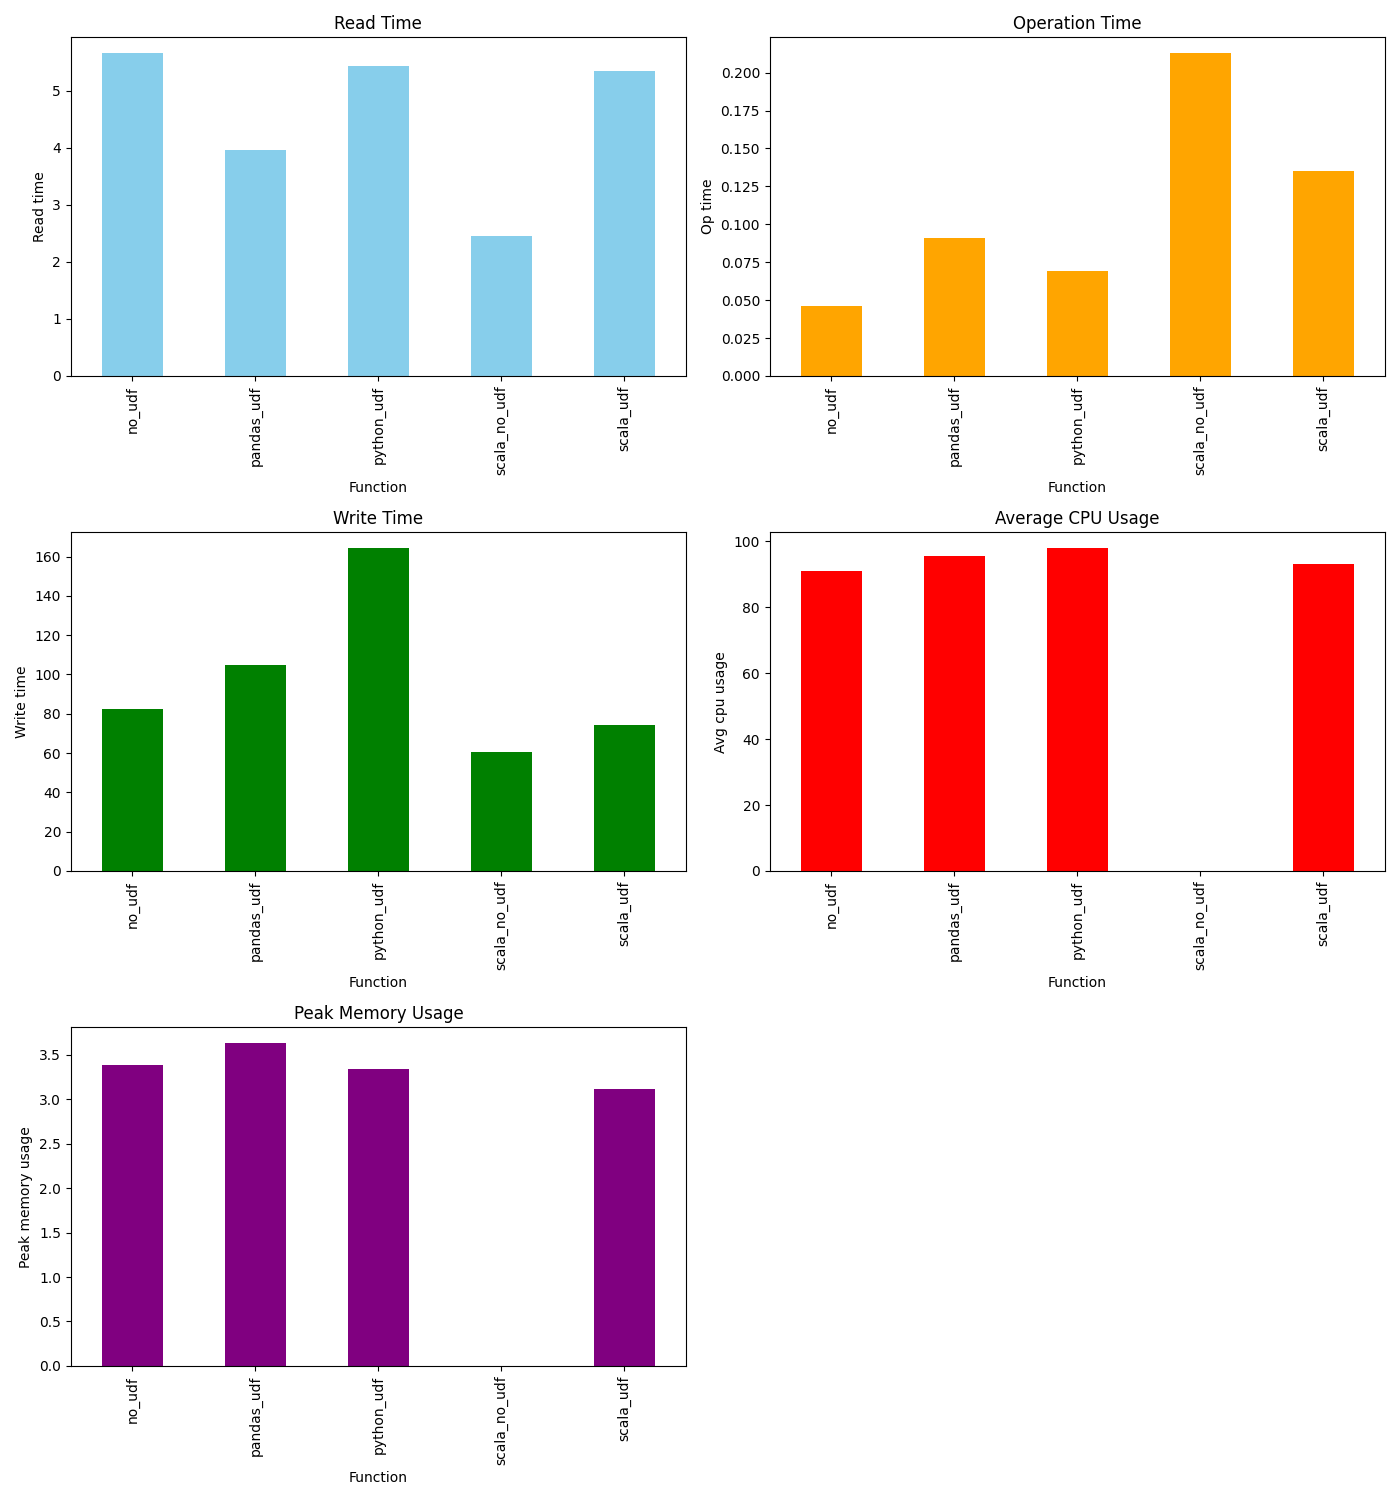
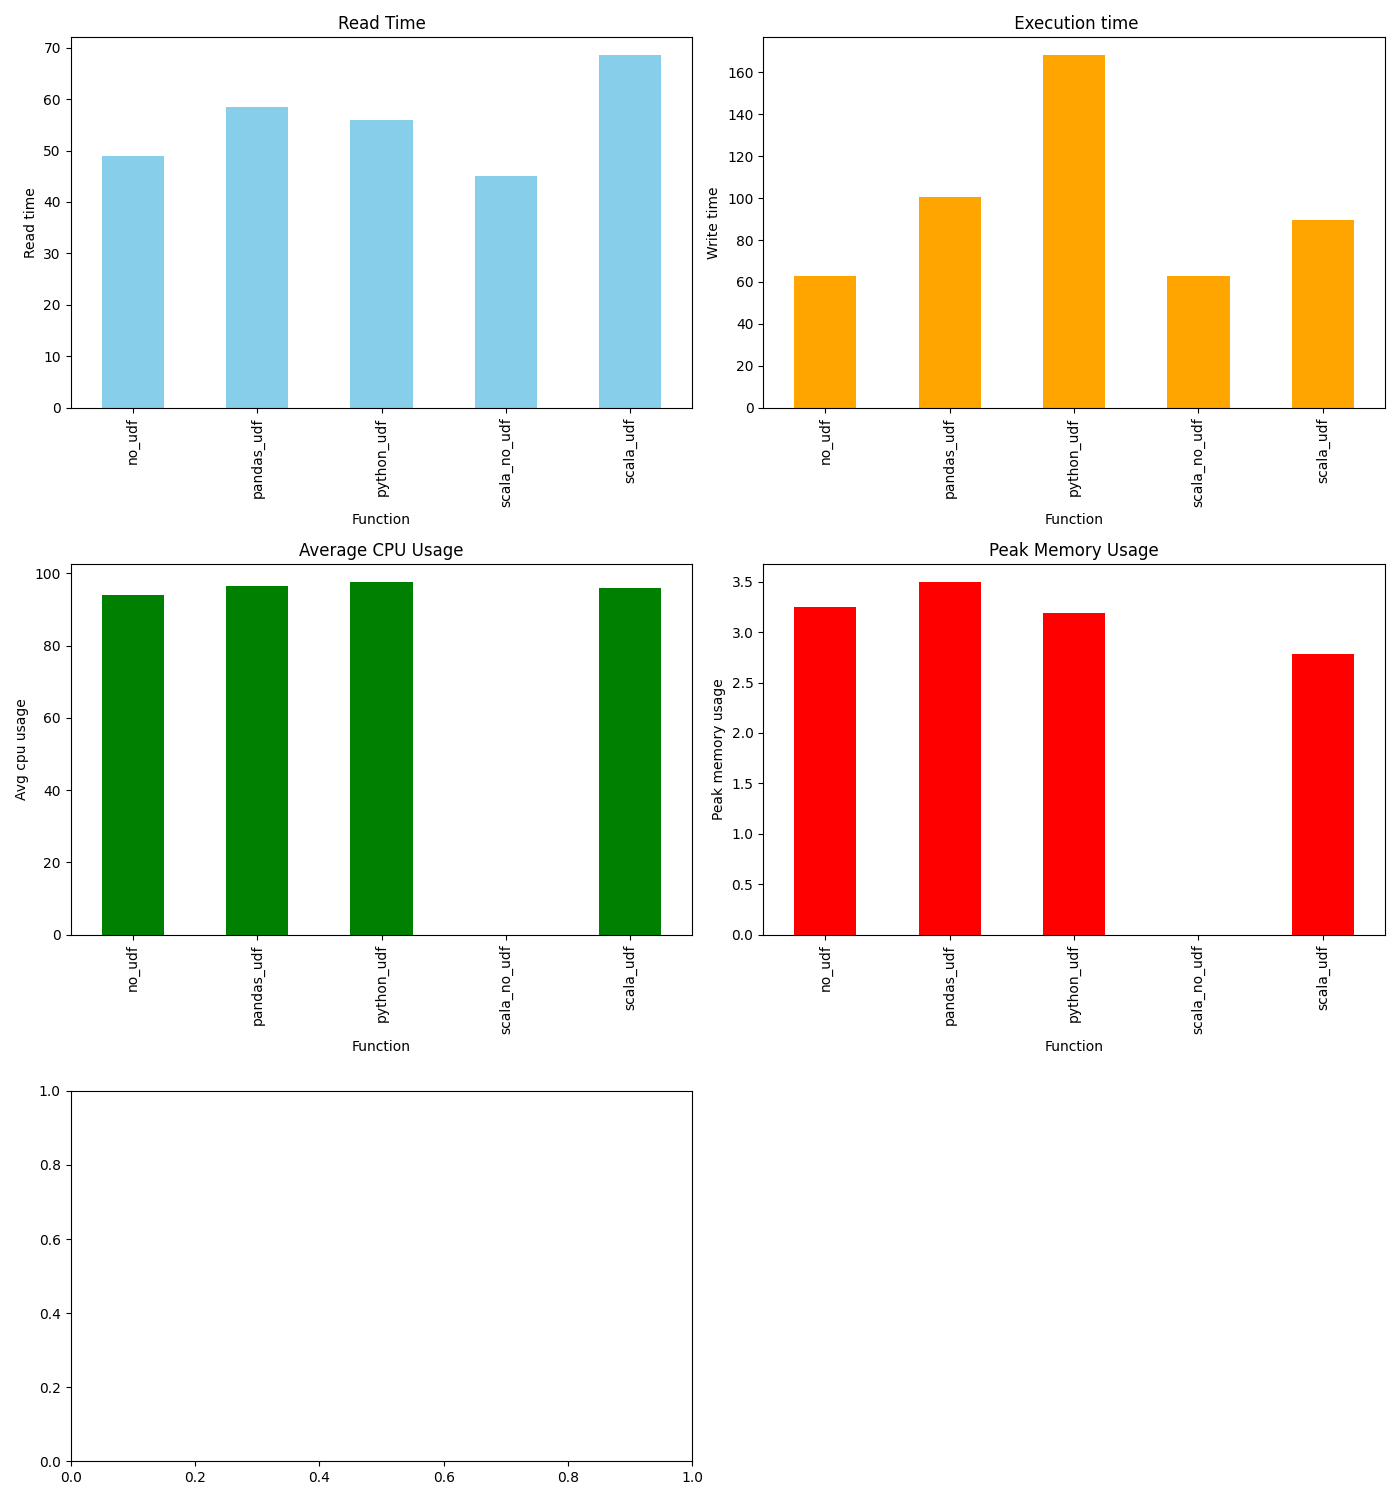
final push

diff --git a/src/fr/hymaia/exo4/python_udf.py b/src/fr/hymaia/exo4/python_udf.py
@@ -23,20 +23,16 @@ def create_category_name(category: int) -> str:
 def main():
     monitor = HardwareMonitor()
     monitor.start()
-    
     read_start = time.time()
-    df = spark.read.csv("src/resources/exo4/sell.csv", header=True)
+    df = spark.read.csv("src/resources/exo4/sell.csv", header=True,inferSchema=True)
     read_end = time.time()
-    op_start = time.time()
     df = df.withColumn("category_name", create_category_name(df["category"]))
-    op_end = time.time()
     write_start = time.time()
     df.write.mode("overwrite").parquet("src/output/python_udf.parquet")
     write_end = time.time()
     monitor.stop()   
     data = {
         'read_time': read_end - read_start,
-        'op_time': op_end - op_start,
         'write_time': write_end - write_start,
         'avg_cpu_usage': monitor.get_avg_cpu(),
         'avg_memory_usage': monitor.get_avg_memory(),

diff --git a/src/fr/hymaia/exo4/no_udf.py b/src/fr/hymaia/exo4/no_udf.py
@@ -28,18 +28,15 @@ def main():
     monitor = HardwareMonitor()
     monitor.start()
     read_start = time.time()
-    sell_df = spark.read.csv("src/resources/exo4/sell.csv",header=True)
+    sell_df = spark.read.csv("src/resources/exo4/sell.csv",header=True,inferSchema=True)
     read_end = time.time()
-    op_start = time.time()
     sell_df =  sell_df.withColumn("category_name", F.when(sell_df["category"] < 6, "food").otherwise("furniture"))
-    op_end = time.time()
     write_start = time.time()
     sell_df.write.mode("overwrite").parquet("src/output/no_udf_noWindow.parquet")
     write_end = time.time()
     monitor.stop()
     data = {
         'read_time': read_end - read_start,
-        'op_time': op_end - op_start,
         'write_time': write_end - write_start,
         'avg_cpu_usage': monitor.get_avg_cpu(),
         'avg_memory_usage': monitor.get_avg_memory(),

diff --git a/src/fr/hymaia/exo4/pandas_udf.py b/src/fr/hymaia/exo4/pandas_udf.py
@@ -20,22 +20,17 @@ def main():
     monitor.start()
     
     read_start = time.time()
-    df = spark.read.csv("src/resources/exo4/sell.csv", header=True)
+    df = spark.read.csv("src/resources/exo4/sell.csv", header=True,inferSchema=True)
     read_end = time.time()
-    
-    op_start = time.time()
     df = df.withColumn("category_name", create_category_name(df["category"]))
-    op_end = time.time()
-    
     write_start = time.time()
     df.write.mode("overwrite").parquet("src/output/python_udf.parquet")
     write_end = time.time()
-    
+  
     monitor.stop()
     
     data = {
         'read_time': read_end - read_start,
-        'op_time': op_end - op_start,
         'write_time': write_end - write_start,
         'avg_cpu_usage': monitor.get_avg_cpu(),
         'avg_memory_usage': monitor.get_avg_memory(),

diff --git a/src/fr/hymaia/exo4/scala_udf.py b/src/fr/hymaia/exo4/scala_udf.py
@@ -33,11 +33,9 @@ def main():
     monitor = HardwareMonitor()
     monitor.start()
 
-    df = spark.read.csv("src/resources/exo4/sell.csv", header=True)
+    df = spark.read.csv("src/resources/exo4/sell.csv", header=True, inferSchema=True)
     read_end = time.time()
-    op_start = time.time()
     df = df.withColumn("category_name", addCategoryName(df["category"]))
-    op_end = time.time()
     write_start = time.time()
     df.write.mode("overwrite").parquet("src/output/scala_udf.parquet")
     write_end = time.time()
@@ -46,7 +44,6 @@ def main():
 
     data = {
         'read_time': read_end - read_start,
-        'op_time': op_end - op_start,
         'write_time': write_end - write_start,
         'avg_cpu_usage': monitor.get_avg_cpu(),
         'avg_memory_usage': monitor.get_avg_memory(),

diff --git a/src/fr/hymaia/exo4/utils/plot.py b/src/fr/hymaia/exo4/utils/plot.py
@@ -17,9 +17,9 @@ def main():
 
  combined_df = pd.concat(dfs, ignore_index=True)
  fig, axes = plt.subplots(nrows=3, ncols=2, figsize=(14, 15))
- metrics = ['read_time', 'op_time', 'write_time', 'avg_cpu_usage', 'peak_memory_usage']
+ metrics = ['read_time', 'write_time', 'avg_cpu_usage', 'peak_memory_usage']
  colors = ['skyblue', 'orange', 'green', 'red', 'purple']
- titles = ['Read Time', 'Operation Time', 'Write Time', 'Average CPU Usage', 'Peak Memory Usage']
+ titles = ['Read Time', ' Execution time', 'Average CPU Usage', 'Peak Memory Usage']
 
  for i, metric in enumerate(metrics):
     ax = axes[i // 2, i % 2]

diff --git a/src/fr/hymaia/exo4/no_window_func.py b/src/fr/hymaia/exo4/no_window_func.py
@@ -8,8 +8,7 @@ from pyspark.sql import DataFrame
 spark = SparkSession.builder \
     .appName("exo4") \
     .master("local[*]") \
-    .config("spark.executor.instances", "4") \
-    .getOrCreate()
+    .config('spark.driver.memory','12g').getOrCreate()
 
 spark.conf.set("spark.sql.shuffle.partitions", "200")
 
